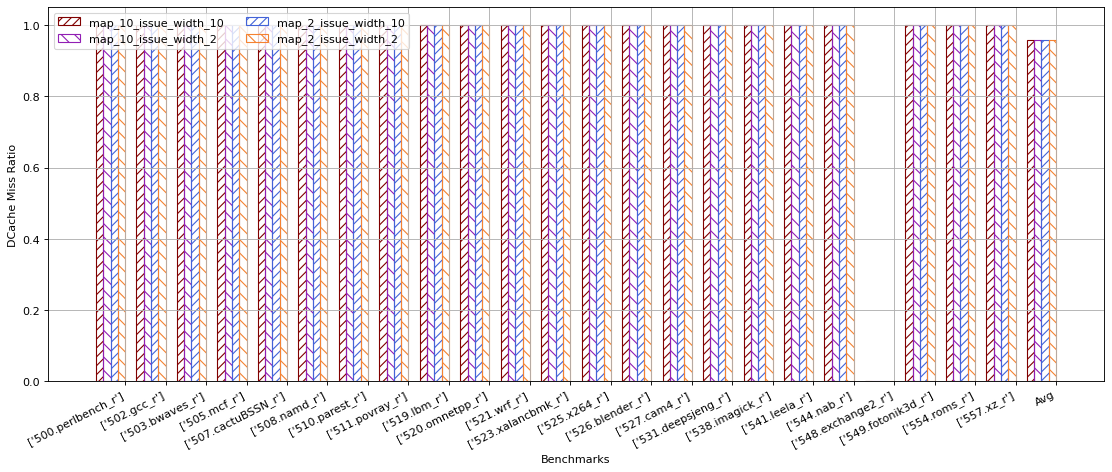
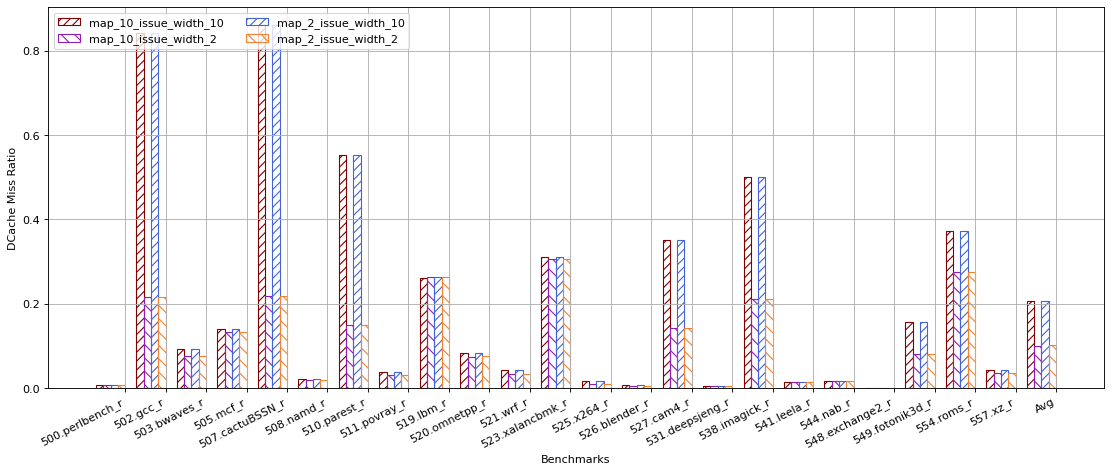
modify Dcache bugs

Changed region(s): [[0.0, 0.0297, 1.0, 0.9492], [0.214, 0.0297, 0.2446, 0.0593]]

diff --git a/Figure_make.py b/Figure_make.py
@@ -94,37 +94,46 @@ def get_dcache_miss_ratio(descriptor_data, sim_path, output_dir):
             avg_ratio_config = 0.0
             cnt_benchmarks = 0
             for benchmark in benchmarks_org:
-                benchmark_name = benchmark.split("/")
+                benchmark_name = benchmark.split("/")[-1]
                 exp_path = sim_path + '/' + benchmark + '/' + descriptor_data["experiment"] + '/'
-                
+
                 dcache_misses = 0
                 dcache_hits = 0
-                
+
                 # Read from memory.stat.0.csv for DCache misses and hits
                 with open(exp_path + config_key + '/memory.stat.0.csv') as f:
-                    lines = f.readlines()
-                    for line in lines:
-                        if 'DCACHE_MISS_count' in line:
-                            tokens = [x.strip() for x in line.split(',')]
-                            dcache_misses = int(tokens[1])
-                        if 'DCACHE_HIT_count' in line:
-                            tokens = [x.strip() for x in line.split(',')]
-                            dcache_hits = int(tokens[1])
+                    for line in f:
+                        if "DCACHE_HIT_count" in line and "DC_PREF_REQ_DCACHE_HIT_count" not in line:
+                            print("HIT line: ", line.strip())  # Debug print
+                            dcache_hits = int(line.split(',')[1].strip())
+                        elif "DCACHE_MISS_count" in line and "NUM_WINDOWS_WITH_DCACHE_MISS_count" not in line:
+                            print("MISS line: ", line.strip())  # Debug print
+                            dcache_misses = int(line.split(',')[1].strip())
+
+                # Debugging print for the current benchmark
+                print(f"Benchmark: {benchmark_name}, DCache Misses: {dcache_misses}, DCache Hits: {dcache_hits}")
 
                 # Calculate DCache miss ratio
                 dcache_accesses = dcache_misses + dcache_hits
-                ratio = dcache_misses / dcache_accesses if dcache_accesses > 0 else 0
-                avg_ratio_config += ratio
+                if dcache_accesses > 0:
+                    ratio = dcache_misses / dcache_accesses
+                else:
+                    ratio = 0
 
+                avg_ratio_config += ratio
                 cnt_benchmarks += 1
+
+                # Append benchmark name if not already done
                 if len(benchmarks_org) > len(benchmarks):
                     benchmarks.append(benchmark_name)
 
                 ratio_config.append(ratio)
 
             # Append average ratio for this configuration
-            num = len(benchmarks)
-            ratio_config.append(avg_ratio_config / num)
+            if cnt_benchmarks > 0:
+                ratio_config.append(avg_ratio_config / cnt_benchmarks)
+            else:
+                ratio_config.append(0)
             dcache_miss_ratio[config_key] = ratio_config
 
         # Add 'Avg' to the benchmark list
@@ -134,7 +143,7 @@ def get_dcache_miss_ratio(descriptor_data, sim_path, output_dir):
         plot_data(benchmarks, dcache_miss_ratio, 'DCache Miss Ratio', output_dir + '/DCache_Miss_Ratio.png')
 
     except Exception as e:
-        print(e)        
+        print(e)
 
 def get_icache_miss_ratio(descriptor_data, sim_path, output_dir):
     benchmarks_org = descriptor_data["workloads_list"].copy()
@@ -237,4 +246,4 @@ if __name__ == "__main__":
     descriptor_data = read_descriptor_from_json(descriptor_filename)
 
     if descriptor_data:
-        get_icache_miss_ratio(descriptor_data, args.simulation_path, args.output_dir)
+        get_dcache_miss_ratio(descriptor_data, args.simulation_path, args.output_dir)  
